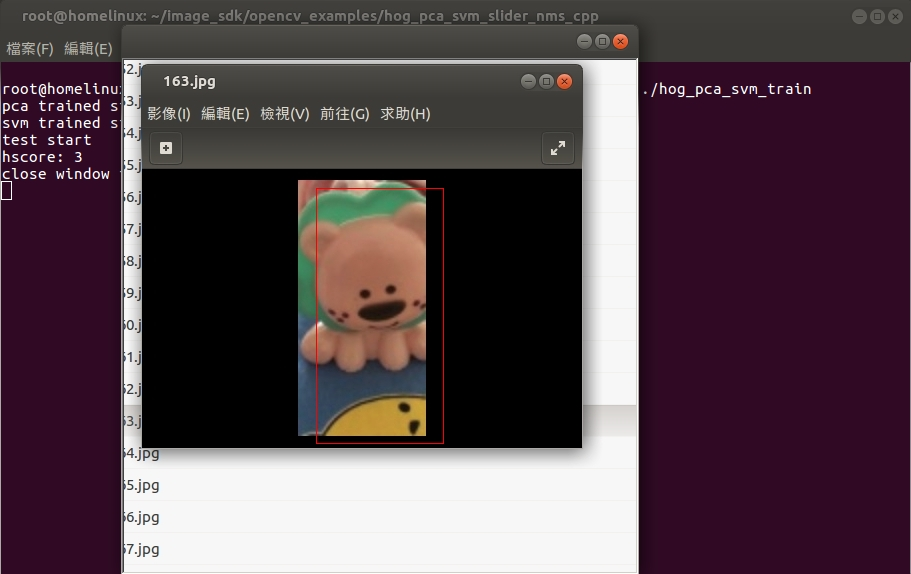
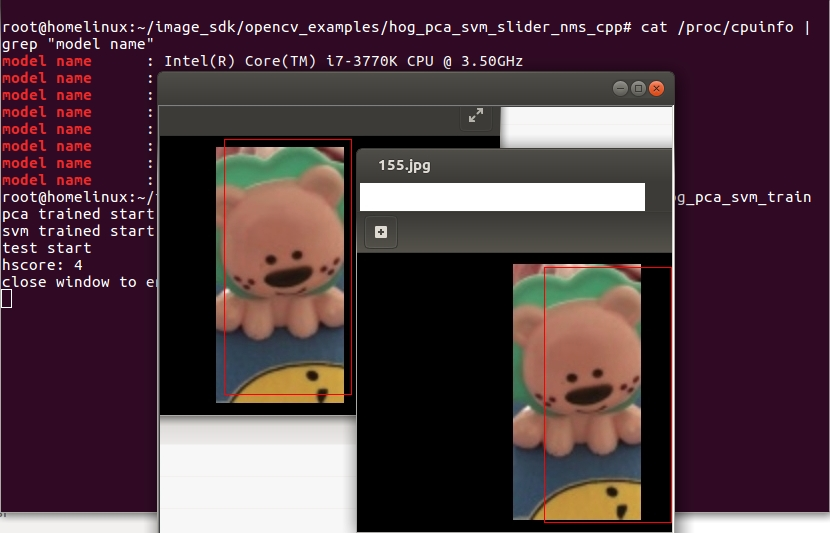
add demo

diff --git a/hog_pca_svm_train.cpp b/hog_pca_svm_train.cpp
@@ -163,7 +163,7 @@ static void* Thread_OneCorp(void* arg)
 }
 
 //static void detect_object(matrix<rgb_pixel>& image, cv::PCA& pca, Ptr<SVM>& svm, int nEigens, Size win_size, float thres_hold = 0.01f)
-static void detect_object(matrix<rgb_pixel> image, cv::PCA& pca, Ptr<SVM>& svm, int nEigens, Size win_size, float thres_hold = 0.01f) //no &image will keep original
+static void detect_object(matrix<rgb_pixel> image, cv::PCA& pca, Ptr<SVM>& svm, int nEigens, Size win_size, float thres_hold = 0.2f) //no &image will keep original
 {
     int                     feature_times;
     float                	predict_socre;
@@ -275,7 +275,7 @@ static void detect_object(matrix<rgb_pixel> image, cv::PCA& pca, Ptr<SVM>& svm, 
 
     cout << "hscore: " << history_score << endl; //test
 
-    nms(srcRects, dstRects, 0.3f, 0);
+    nms(srcRects, dstRects, 0.2f, 0);
     for( int i=0; i<dstRects.size(); i++)
     {
     	cv::Rect r = dstRects[i];
